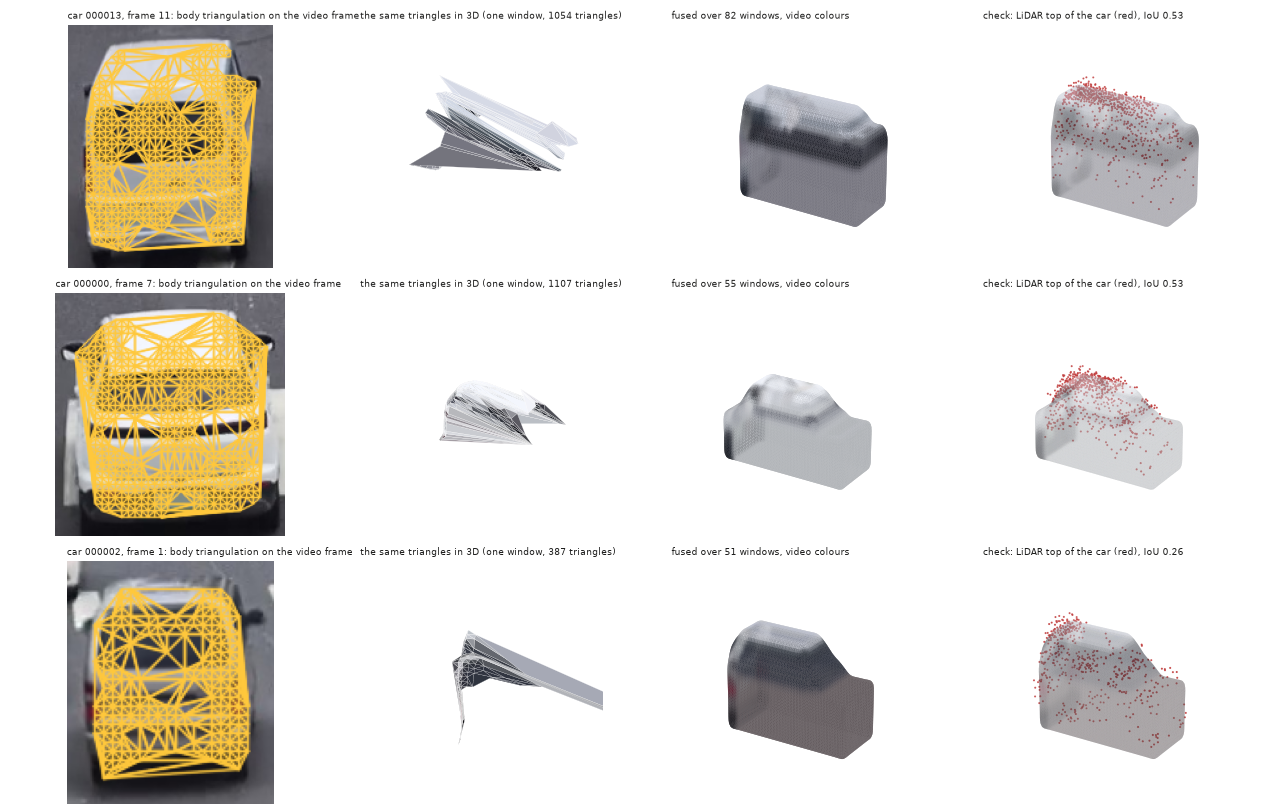
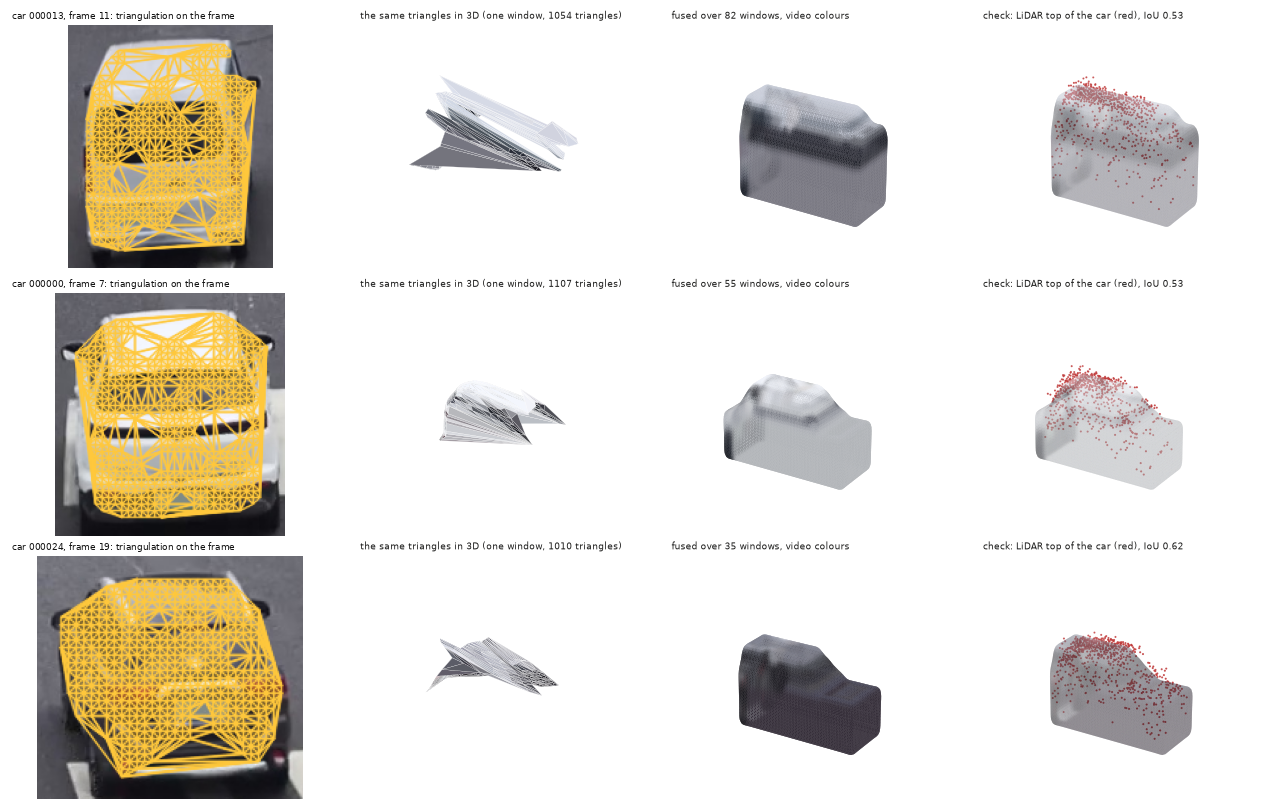
feat(figures): car gallery, intersection B and pedestrians/cyclists from the precise runs
Gallery: 8 side-on cars of the 32-clip runs (4 DAIR-V2X-C, 4 V2X-Seq-SPD),
body type dropped from the captions. Intersection B: rows of the new run,
car 000002 (shifted by the camera-LiDAR clock) replaced. Pedestrians and
cyclists on SAM masks and LiDAR poses (symmetry only; cyclist with the
triangulated surface). Tables regenerated, labels matched by track id.

diff --git a/scripts/vru_compare_figure.py b/scripts/vru_compare_figure.py
@@ -1,31 +1,25 @@
-"""Pedestrians and cyclists for the article: video (object framed) | own tracking | given tracking (labelled 2D boxes)
-| given tracking from the side; plain Poisson surfaces."""
-import json, os, sys
-sys.path.insert(0, os.path.expanduser("~/Documents/MyArticles/RoadsideCarShape/scripts"))
-sys.path.insert(0, os.path.expanduser("~/Documents/MyArticles/code/3dseg"))
+"""Pedestrians and cyclists for the article, on the precise input: frame | SAM 2.1 mask | LiDAR box | the model as the
+camera saw it | turned 90 deg (the row images of vru_lidar.py). Pedestrians: carve with symmetry only; cyclists: carve
+bounded by the surface triangulated over the pass (tri_vru.py, OCC_OVERRIDE)."""
+import os, re
 import cv2, numpy as np
-import cars_figure as cf, spsr
-D = os.path.expanduser("~/Documents/MyArticles/code/3dseg/docs")
-S = os.environ.get("VRU_PHOTOS", os.path.dirname(os.path.abspath(__file__)))
-PICK = [("seq_0036", "002251"), ("seq_0077", "000118"), ("seq_0059", "003921"), ("seq_0063", "003765")]
-W, H = 260, 300
-def render(npz, eye, title):
-    z = np.load(npz); V, F, C = spsr.smooth_mesh(z["V"], z["F"].astype(int), z["C"].astype(float), h=0.02, alpha=0.0)
-    K = np.array([[1.6 * W, 0, W / 2], [0, 1.6 * W, H / 2], [0, 0, 1]])
-    return cf.panel(cf.render_mesh(np.full((H, W, 3), 255, np.uint8), cf.look_at(K, eye, np.array([0.0, 0.0, 0.85])), V, F, C), title, size=(W, H))
-def photo(p, title):
-    img = cv2.imread(p); sc = min(W / img.shape[1], (H - 26) / img.shape[0])
-    img = cv2.resize(img, (max(1, int(img.shape[1] * sc)), max(1, int(img.shape[0] * sc))), interpolation=cv2.INTER_CUBIC)
-    can = np.full((H - 26, W, 3), 255, np.uint8); y0, x0 = (H - 26 - img.shape[0]) // 2, (W - img.shape[1]) // 2
-    can[y0:y0 + img.shape[0], x0:x0 + img.shape[1]] = img
-    return cf.panel(can, title, size=(W, H))
-e1, e2 = np.array([3.6, 3.0, 1.8]), np.array([0.0, 4.6, 1.2])
+D = os.path.expanduser("~/Documents/MyArticles/code/3dseg/docs/vru_precise")
+ROWS = [("seq_0077_000118/carve/vru_000118.jpg", "seq_0077_000118/carve.log"),
+        ("seq_0059_003926/carve/vru_003926.jpg", "seq_0059_003926/carve.log"),
+        ("seq_0059_003897/tri/vru_003897.jpg", "seq_0059_003897/final.log")]
+# (cyclist 003765 of seq_0063 left out: its mask takes in the courier box of the scooter beside it)
+OUT = os.path.join(os.path.dirname(os.path.abspath(__file__)), "..", "figures", "vru_compare.png")
 rows = []
-for seq, tid in PICK:
-    own, lab = (f"{D}/{d}/{seq}/{tid}" for d in ("vru_new", "vru_lab"))
-    ro, rl = json.load(open(own + ".json")), json.load(open(lab + ".json"))
-    rows.append(np.hstack([photo(os.path.join(S, f"vrulab_{seq}_{tid}.jpg"), f"{rl['type']}: video"),
-                           render(own + ".npz", e1, f"own tracking, IoU {ro['holdout_iou']:.2f}"),
-                           render(lab + ".npz", e1, f"given tracking, IoU {rl['holdout_iou']:.2f}"),
-                           render(lab + ".npz", e2, f"H {rl['height']:.2f} / {rl['label_height']:.2f} m")]))
-out = os.path.join(D, "vru_compare.png"); cv2.imwrite(out, np.vstack(rows)); print(out)
+for img, log in ROWS:
+    im = cv2.imread(os.path.join(D, img))[:, :5 * 320].copy()     # six panels of 320 px: drop the view from behind
+    im[282:, :960] = 255                                            # the old caption over the first three panels
+    txt = open(os.path.join(D, log)).read().splitlines()
+    last = [l for l in txt if "IoU vs its LiDAR" in l][-1]
+    iou = float(re.search(r"IoU vs its LiDAR ([\d.]+)", last).group(1))
+    L, W, H = map(float, re.search(r"size L ([\d.]+) W ([\d.]+) H ([\d.]+)", last).groups())
+    l, w, h = map(float, re.search(r"LiDAR box L ([\d.]+) W ([\d.]+) H ([\d.]+)", next(t for t in txt if "LiDAR box L" in t)).groups())
+    band = np.full((28, im.shape[1], 3), 255, np.uint8)
+    cv2.putText(band, f"IoU vs its LiDAR {iou:.2f}; model {L:.2f} x {W:.2f} x {H:.2f} m, LiDAR box {l:.2f} x {w:.2f} x {h:.2f} m",
+                (8, 20), cv2.FONT_HERSHEY_SIMPLEX, 0.55, (30, 30, 30), 1, cv2.LINE_AA)
+    rows += [im, band, np.full((8, im.shape[1], 3), 255, np.uint8)]
+cv2.imwrite(OUT, np.vstack(rows[:-1])); print(OUT)

diff --git a/tables/paired_ci.tex b/tables/paired_ci.tex
@@ -1,28 +1,28 @@
 \begin{table}[t]
 \centering
-\caption{Paired difference of the mean solid IoU (ours $-$ labelled box) against the gap-closed LiDAR, per car, with a 95\,\% bootstrap confidence interval (5000 resamples, fixed seed). \emph{measured}: the car's length was seen side-on ($\ge 2$ side-on windows, \texttt{n\_side} $\ge 2$); \emph{prior}: capped by the 4.6\,m length prior; \emph{held-out}: without the five clips that informed a choice during development. Intersection A is the tuning set of the method; B informed three choices (Sect.~\ref{sec:protocol}).}
+\caption{Paired difference of the mean solid IoU (ours $-$ labelled box) against the gap-closed LiDAR, per car, with a 95\,\% bootstrap confidence interval (5000 resamples, fixed seed). \emph{measured}: the car's length was seen side-on ($\ge 2$ side-on windows); \emph{completed}: never seen side-on, length and profile completed from its cuboid; \emph{held-out}: without the five clips that informed a choice during development. Intersection A is the tuning set of the method; B informed three choices (Sect.~\ref{sec:protocol}).}
 \label{tab:paired}
 \small
 \begin{tabular}{llrcl}
 \toprule
 Dataset & length & cars & mean $\Delta$ IoU & 95\,\% CI \\
 \midrule
-intersection A (tuning) & all & 18 & +0.043 & [+0.013, +0.072] \\
- & measured & 15 & +0.045 & [+0.017, +0.071] \\
- & prior & 3 & +0.035 & [-0.107, +0.124] \\
+intersection A (tuning) & all & 24 & +0.092 & [+0.070, +0.115] \\
+ & measured & 22 & +0.092 & [+0.070, +0.116] \\
+ & completed & 2 & +0.089 & [+0.031, +0.146] \\
 \midrule
-intersection B & all & 7 & +0.024 & [-0.023, +0.073] \\
- & prior & 7 & +0.024 & [-0.023, +0.073] \\
+intersection B & all & 15 & +0.107 & [+0.086, +0.129] \\
+ & completed & 15 & +0.107 & [+0.086, +0.129] \\
 \midrule
-DAIR-V2X-C & all & 109 & -0.006 & [-0.025, +0.012] \\
- & measured & 74 & -0.016 & [-0.042, +0.008] \\
- & prior & 35 & +0.015 & [-0.011, +0.043] \\
- & held-out & 71 & +0.001 & [-0.021, +0.022] \\
+DAIR-V2X-C & all & 96 & +0.058 & [+0.037, +0.079] \\
+ & measured & 74 & +0.052 & [+0.025, +0.077] \\
+ & completed & 22 & +0.078 & [+0.056, +0.100] \\
+ & held-out & 61 & +0.051 & [+0.020, +0.078] \\
 \midrule
-V2X-Seq-SPD & all & 104 & -0.018 & [-0.041, +0.004] \\
- & measured & 66 & -0.051 & [-0.077, -0.027] \\
- & prior & 38 & +0.038 & [+0.000, +0.078] \\
- & held-out & 94 & -0.017 & [-0.042, +0.009] \\
+V2X-Seq-SPD & all & 102 & +0.018 & [-0.003, +0.037] \\
+ & measured & 72 & +0.015 & [-0.007, +0.035] \\
+ & completed & 30 & +0.024 & [-0.021, +0.064] \\
+ & held-out & 92 & +0.016 & [-0.006, +0.035] \\
 \bottomrule
 \end{tabular}
 \end{table}

diff --git a/scripts/best_models_figure.py b/scripts/best_models_figure.py
@@ -6,14 +6,14 @@ import cars_figure as cf
 D = os.path.expanduser("~/Documents/MyArticles/code/3dseg/docs")
 # (dataset, run of the model on the precise annotation scored against the labels, label, run whose video photos frame
 # the car: the photo is the video, the same for any annotation)
-PICK = [("V2X-Seq-SPD", "ann_P_seq_0059_003932_lb0", "003932", "all_seq_0059"),
-        ("DAIR-V2X-C", "ann_P_clip_106_0_000073_lb0", "000073", "all_clip_106_0"),
-        ("Intersection A", "ann_Aall1_lb0", "003976", "slope2_A"),
-        ("DAIR-V2X-C", "ann_P_clip_105_0_000198_lb0", "000198", "all_clip_105_0"),
-        ("V2X-Seq-SPD", "ann_P_seq_0002_001528_lb0", "001528", "all_seq_0002"),
-        ("DAIR-V2X-C", "ann_P_clip_21_0_000023_lb0", "000023", "all_clip_21_0"),
-        ("DAIR-V2X-C", "ann_P_clip_52_1_000029_lb0", "000029", "all_clip_52_1"),
-        ("DAIR-V2X-C", "ann_P_clip_45_0_000050_lb0", "000050", "all_clip_45_0")]
+PICK = [("DAIR-V2X-C", "ann_P_clip_52_1_all", "000126", "all_clip_52_1"),
+        ("V2X-Seq-SPD", "ann_P_seq_0002_all", "001510", "all_seq_0002"),
+        ("DAIR-V2X-C", "ann_P_clip_52_1_all", "000163", "all_clip_52_1"),
+        ("V2X-Seq-SPD", "ann_P_seq_0002_all", "001502", "all_seq_0002"),
+        ("DAIR-V2X-C", "ann_P_clip_52_1_all", "000067", "all_clip_52_1"),
+        ("V2X-Seq-SPD", "ann_P_seq_0082_all", "000164", "all_seq_0082"),
+        ("DAIR-V2X-C", "ann_P_clip_105_0_all", "000096", "all_clip_105_0"),
+        ("V2X-Seq-SPD", "ann_P_seq_0054_all", "002324", "all_seq_0054")]
 W, H = 400, 270
 def tile(m, eye, title):
     V, F = np.array(m["v"]).reshape(-1, 3), np.array(m["f"]).reshape(-1, 3)
@@ -34,7 +34,7 @@ for name, run, lab, prun in PICK:
     r = row_of(run, lab)
     m = json.load(open(f"{D}/cars_viewer_{run}/meshes.json"))[f"track {r['track']}"]
     rows.append(np.hstack([photo(f"{D}/photos_{prun}/track_{row_of(prun, lab)['track']}.jpg", f"{name}: video"),
-                           tile(m, np.array([7.8, 8.4, 4.6]), f"model ({r['body_type']}), IoU {r['fused closed: iou']:.2f}"),
+                           tile(m, np.array([7.8, 8.4, 4.6]), f"model, IoU {r['fused closed: iou']:.2f}"),
                            tile(m, np.array([-7.5, 8.6, 3.8]), f"length {r['length']:.1f} m (label {r['label_length']:.1f} m)")]))
 two = [np.hstack([rows[i], np.full((rows[i].shape[0], 16, 3), 255, np.uint8), rows[i + 1]]) for i in range(0, len(rows), 2)]
 out = os.path.join(os.path.dirname(os.path.abspath(__file__)), "..", "figures", "best_models.png"); cv2.imwrite(out, np.vstack(two)); print(out)

diff --git a/tables/large_eval.tex b/tables/large_eval.tex
@@ -9,22 +9,22 @@ Dataset & Intersection & Cars & \multicolumn{2}{c}{raw LiDAR} & \multicolumn{2}{
 \cmidrule(lr){4-5}\cmidrule(lr){6-7}\cmidrule(lr){8-9}
  & & & ours & box & ours & box & along & across \\
 \midrule
-DAIR-V2X-C & yz02 & 17 & 0.478 & 0.451 & 0.652 & 0.631 & 1.87 & 0.82 \\
- & yz06 & 33 & 0.482 & 0.509 & 0.617 & 0.638 & 1.63 & 0.57 \\
- & yz08 & 5 & 0.448 & 0.499 & 0.612 & 0.635 & 1.24 & 0.35 \\
- & yz09 & 23 & 0.468 & 0.474 & 0.620 & 0.630 & 0.85 & 0.83 \\
- & yz10 & 8 & 0.465 & 0.422 & 0.623 & 0.606 & 2.03 & 0.57 \\
- & yz13 & 6 & 0.550 & 0.551 & 0.636 & 0.666 & 1.32 & 0.38 \\
- & yz16 & 17 & 0.379 & 0.363 & 0.541 & 0.536 & 1.07 & 0.38 \\
- & \textbf{all} & \textbf{109} & \textbf{0.463} & \textbf{0.465} & \textbf{0.612} & \textbf{0.618} & \textbf{1.44} & \textbf{0.59} \\
+DAIR-V2X-C & yz02 & 14 & 0.537 & 0.459 & 0.704 & 0.646 & 0.52 & 0.54 \\
+ & yz06 & 31 & 0.599 & 0.511 & 0.713 & 0.643 & 0.36 & 0.49 \\
+ & yz08 & 4 & 0.675 & 0.552 & 0.772 & 0.659 & 2.70 & 0.11 \\
+ & yz09 & 19 & 0.541 & 0.481 & 0.672 & 0.633 & 0.29 & 0.77 \\
+ & yz10 & 5 & 0.470 & 0.427 & 0.660 & 0.645 & 0.53 & 0.26 \\
+ & yz13 & 7 & 0.642 & 0.554 & 0.714 & 0.662 & 1.04 & 0.37 \\
+ & yz16 & 16 & 0.409 & 0.349 & 0.591 & 0.528 & 1.04 & 0.30 \\
+ & \textbf{all} & \textbf{96} & \textbf{0.546} & \textbf{0.471} & \textbf{0.683} & \textbf{0.625} & \textbf{0.46} & \textbf{0.44} \\
 \midrule
-V2X-Seq-SPD & yz06 & 45 & 0.517 & 0.571 & 0.663 & 0.688 & 1.51 & 0.32 \\
- & yz08 & 10 & 0.344 & 0.393 & 0.540 & 0.571 & 2.05 & 0.15 \\
- & yz09 & 16 & 0.431 & 0.466 & 0.628 & 0.653 & 0.76 & 0.33 \\
- & yz10 & 7 & 0.323 & 0.342 & 0.527 & 0.574 & 2.21 & 0.22 \\
- & yz13 & 13 & 0.517 & 0.531 & 0.635 & 0.611 & 2.35 & 0.29 \\
- & yz16 & 13 & 0.322 & 0.339 & 0.542 & 0.544 & 1.04 & 0.33 \\
- & \textbf{all} & \textbf{104} & \textbf{0.450} & \textbf{0.488} & \textbf{0.618} & \textbf{0.636} & \textbf{1.37} & \textbf{0.29} \\
+V2X-Seq-SPD & yz06 & 48 & 0.572 & 0.572 & 0.683 & 0.685 & 0.23 & 0.11 \\
+ & yz08 & 11 & 0.374 & 0.376 & 0.582 & 0.555 & 1.47 & 0.08 \\
+ & yz09 & 16 & 0.518 & 0.472 & 0.696 & 0.655 & 0.23 & 0.14 \\
+ & yz10 & 5 & 0.377 & 0.356 & 0.634 & 0.609 & 0.59 & 0.19 \\
+ & yz13 & 12 & 0.538 & 0.545 & 0.631 & 0.629 & 0.82 & 0.11 \\
+ & yz16 & 10 & 0.396 & 0.351 & 0.607 & 0.527 & 0.38 & 0.12 \\
+ & \textbf{all} & \textbf{102} & \textbf{0.511} & \textbf{0.500} & \textbf{0.658} & \textbf{0.640} & \textbf{0.34} & \textbf{0.13} \\
 \bottomrule
 \end{tabular}
 \end{table}

diff --git a/tables/ablation.tex b/tables/ablation.tex
@@ -1,6 +1,6 @@
 \begin{table}[t]
 \centering
-\caption{Ablation on both intersections, changes added one at a time. IoU and height error against the gap-closed LiDAR; $|\Delta L|$, $|\Delta H|$: mean size errors (m); on the cars evaluated in every row (17 on A, 7 on B). The pipeline is deterministic: repeated runs, with the track solves recomputed from scratch, give identical numbers.}
+\caption{Ablation on both intersections: the full method and one part left out at a time, on the same windows. IoU and height error against the gap-closed LiDAR; $|\Delta L|$, $|\Delta H|$: mean size errors (m); on the cars evaluated in every row (24 on A, 15 on B). The pipeline is deterministic: repeated runs, with the track solves recomputed from scratch, give identical numbers.}
 \label{tab:ablation}
 \setlength{\tabcolsep}{3.5pt}
 \resizebox{\textwidth}{!}{%
@@ -10,12 +10,14 @@
 \cmidrule(lr){2-5}\cmidrule(lr){6-9}
  & IoU & h.~err & $|\Delta L|$ & $|\Delta H|$ & IoU & h.~err & $|\Delta L|$ & $|\Delta H|$ \\
 \midrule
-previous version & 0.564 & 24.8 & 0.70 & 0.31 & 0.392 & 24.6 & 2.33 & 0.26 \\
-+ cabin taper & 0.567 & 24.5 & 0.70 & 0.31 & 0.393 & 24.6 & 2.33 & 0.26 \\
-+ length prior where never seen side-on & 0.580 & 24.5 & 0.48 & 0.31 & 0.486 & 26.3 & 0.29 & 0.21 \\
-+ one rigid car per track & 0.599 & 23.1 & 0.45 & 0.32 & 0.524 & 26.4 & 0.25 & 0.16 \\
-+ softer hull vote for those cars & 0.608 & 22.6 & 0.45 & 0.33 & 0.564 & 25.0 & 0.25 & 0.18 \\
-+ body-type profile for them (ours) & \textbf{0.615} & 20.5 & 0.45 & 0.31 & \textbf{0.571} & 26.6 & 0.25 & 0.15 \\
+full method (ours) & \textbf{0.637} & 15.5 & 0.28 & 0.22 & \textbf{0.637} & 11.3 & 0.25 & 0.10 \\
+\midrule
+$-$ one rigid body per track & 0.622 & 17.1 & 0.38 & 0.26 & 0.630 & 13.5 & 0.25 & 0.10 \\
+$-$ symmetry & 0.632 & 15.3 & 0.27 & 0.23 & 0.629 & 11.2 & 0.25 & 0.10 \\
+$-$ cabin from the masks & 0.348 & 53.9 & 0.59 & 0.59 & 0.437 & 32.6 & 0.86 & 0.35 \\
+$-$ roof from the far edge & 0.645 & 14.1 & 0.28 & 0.20 & 0.615 & 13.4 & 0.25 & 0.10 \\
+$-$ cuboid completion of end-on cars & 0.640 & 16.0 & 0.30 & 0.22 & 0.584 & 20.0 & 0.40 & 0.24 \\
+best single window & 0.280 & -- & -- & -- & 0.383 & -- & -- & -- \\
 \bottomrule
 \end{tabular}}
 \end{table}

diff --git a/tables/numbers.tex b/tables/numbers.tex
@@ -1,32 +1,30 @@
 % generated by make_tables.py - do not edit
-\newcommand{\AsixClosed}{0.617}
-\newcommand{\AsixRaw}{0.403}
-\newcommand{\BsixClosed}{0.571}
+\newcommand{\AsixClosed}{0.637}
+\newcommand{\AsixRaw}{0.416}
+\newcommand{\BsixClosed}{0.637}
 \newcommand{\BsixRaw}{0.404}
-\newcommand{\AlabClosed}{0.572}
-\newcommand{\AlabRaw}{0.376}
-\newcommand{\BlabClosed}{0.546}
-\newcommand{\BlabRaw}{0.378}
-\newcommand{\AboxClosed}{0.525}
-\newcommand{\BboxClosed}{0.524}
-\newcommand{\AsingleClosed}{0.233}
-\newcommand{\BsingleClosed}{0.203}
-\newcommand{\Acars}{19}
-\newcommand{\Bcars}{7}
-\newcommand{\Alabels}{18}
-\newcommand{\Blabels}{7}
-\newcommand{\AprevClosed}{0.567}
-\newcommand{\BprevClosed}{0.392}
-\newcommand{\Ascanned}{0.588}
-\newcommand{\AlabScanned}{0.548}
-\newcommand{\Acentre}{1.3}
-\newcommand{\Bcentre}{2.8}
-\newcommand{\Aalong}{1.03}
-\newcommand{\Aacross}{0.30}
-\newcommand{\Balong}{2.7}
-\newcommand{\Bacross}{0.26}
-\newcommand{\Acommon}{17}
-\newcommand{\Bcommon}{7}
+\newcommand{\AlabClosed}{0.545}
+\newcommand{\AlabRaw}{0.345}
+\newcommand{\BlabClosed}{0.530}
+\newcommand{\BlabRaw}{0.326}
+\newcommand{\AboxClosed}{0.599}
+\newcommand{\BboxClosed}{0.564}
+\newcommand{\AsingleClosed}{0.280}
+\newcommand{\BsingleClosed}{0.383}
+\newcommand{\Acars}{24}
+\newcommand{\Bcars}{15}
+\newcommand{\Alabels}{24}
+\newcommand{\Blabels}{15}
+\newcommand{\Ascanned}{0.601}
+\newcommand{\AlabScanned}{0.509}
+\newcommand{\Acentre}{0.4}
+\newcommand{\Bcentre}{3.3}
+\newcommand{\Aalong}{0.33}
+\newcommand{\Aacross}{0.18}
+\newcommand{\Balong}{3.29}
+\newcommand{\Bacross}{0.29}
+\newcommand{\Acommon}{24}
+\newcommand{\Bcommon}{15}
 \newcommand{\Egopath}{13\,\%}
 \newcommand{\Egolabels}{187}
 \newcommand{\Egofound}{25}

diff --git a/tables/main_table.tex b/tables/main_table.tex
@@ -10,15 +10,15 @@
 \cmidrule(lr){3-4}\cmidrule(lr){7-9}
  & & raw & closed & IoU & err.\ (cm) & $L$ & $W$ & $H$ \\
 \midrule
-\multirow{4}{*}{A (19 tracks of 18 cars)} & labelled box & 0.376 & 0.572 & 0.679 & -- & 0 & 0 & 0 \\
- & box of our size & 0.321 & 0.525 & -- & -- & 0.48 & 0.12 & 0.30 \\
- & best single window & 0.204 & 0.233 & -- & -- & -- & -- & -- \\
- & \textbf{ours} & \textbf{0.403} & \textbf{0.617} & 0.705 & 20.0 & 0.48 & 0.12 & 0.30 \\
+\multirow{4}{*}{A (24 cars)} & labelled box & 0.345 & 0.545 & 0.660 & -- & 0 & 0 & 0 \\
+ & box of our size & 0.367 & 0.599 & -- & -- & 0.28 & 0.09 & 0.22 \\
+ & best single window & 0.230 & 0.280 & -- & -- & -- & -- & -- \\
+ & \textbf{ours} & \textbf{0.416} & \textbf{0.637} & 0.698 & 15.5 & 0.28 & 0.09 & 0.22 \\
 \midrule
-\multirow{4}{*}{B (7 cars)} & labelled box & 0.378 & 0.546 & 0.688 & -- & 0 & 0 & 0 \\
- & box of our size & 0.352 & 0.524 & -- & -- & 0.25 & 0.11 & 0.15 \\
- & best single window & 0.179 & 0.203 & -- & -- & -- & -- & -- \\
- & \textbf{ours} & \textbf{0.404} & \textbf{0.571} & 0.659 & 26.6 & 0.25 & 0.11 & 0.15 \\
+\multirow{4}{*}{B (15 cars)} & labelled box & 0.326 & 0.530 & 0.670 & -- & 0 & 0 & 0 \\
+ & box of our size & 0.344 & 0.564 & -- & -- & 0.25 & 0.05 & 0.10 \\
+ & best single window & 0.316 & 0.383 & -- & -- & -- & -- & -- \\
+ & \textbf{ours} & \textbf{0.404} & \textbf{0.637} & 0.681 & 11.3 & 0.25 & 0.05 & 0.10 \\
 \bottomrule
 \end{tabular}}
 \end{table}

diff --git a/tables/numbers_large.tex b/tables/numbers_large.tex
@@ -1,21 +1,21 @@
 % generated by make_tables.py - do not edit
-\newcommand{\DairCars}{109}
+\newcommand{\DairCars}{96}
 \newcommand{\DairClips}{20}
 \newcommand{\DairSites}{7}
 \newcommand{\DairFrames}{2950}
-\newcommand{\DairOursRaw}{0.463}
-\newcommand{\DairBoxRaw}{0.465}
-\newcommand{\DairOursClosed}{0.612}
-\newcommand{\DairBoxClosed}{0.618}
-\newcommand{\DairAlong}{1.44}
-\newcommand{\DairAcross}{0.59}
-\newcommand{\SpdCars}{104}
+\newcommand{\DairOursRaw}{0.546}
+\newcommand{\DairBoxRaw}{0.471}
+\newcommand{\DairOursClosed}{0.683}
+\newcommand{\DairBoxClosed}{0.625}
+\newcommand{\DairAlong}{0.46}
+\newcommand{\DairAcross}{0.44}
+\newcommand{\SpdCars}{102}
 \newcommand{\SpdClips}{12}
 \newcommand{\SpdSites}{6}
 \newcommand{\SpdFrames}{2733}
-\newcommand{\SpdOursRaw}{0.450}
-\newcommand{\SpdBoxRaw}{0.488}
-\newcommand{\SpdOursClosed}{0.618}
-\newcommand{\SpdBoxClosed}{0.636}
-\newcommand{\SpdAlong}{1.37}
-\newcommand{\SpdAcross}{0.29}
+\newcommand{\SpdOursRaw}{0.511}
+\newcommand{\SpdBoxRaw}{0.500}
+\newcommand{\SpdOursClosed}{0.658}
+\newcommand{\SpdBoxClosed}{0.640}
+\newcommand{\SpdAlong}{0.34}
+\newcommand{\SpdAcross}{0.13}
